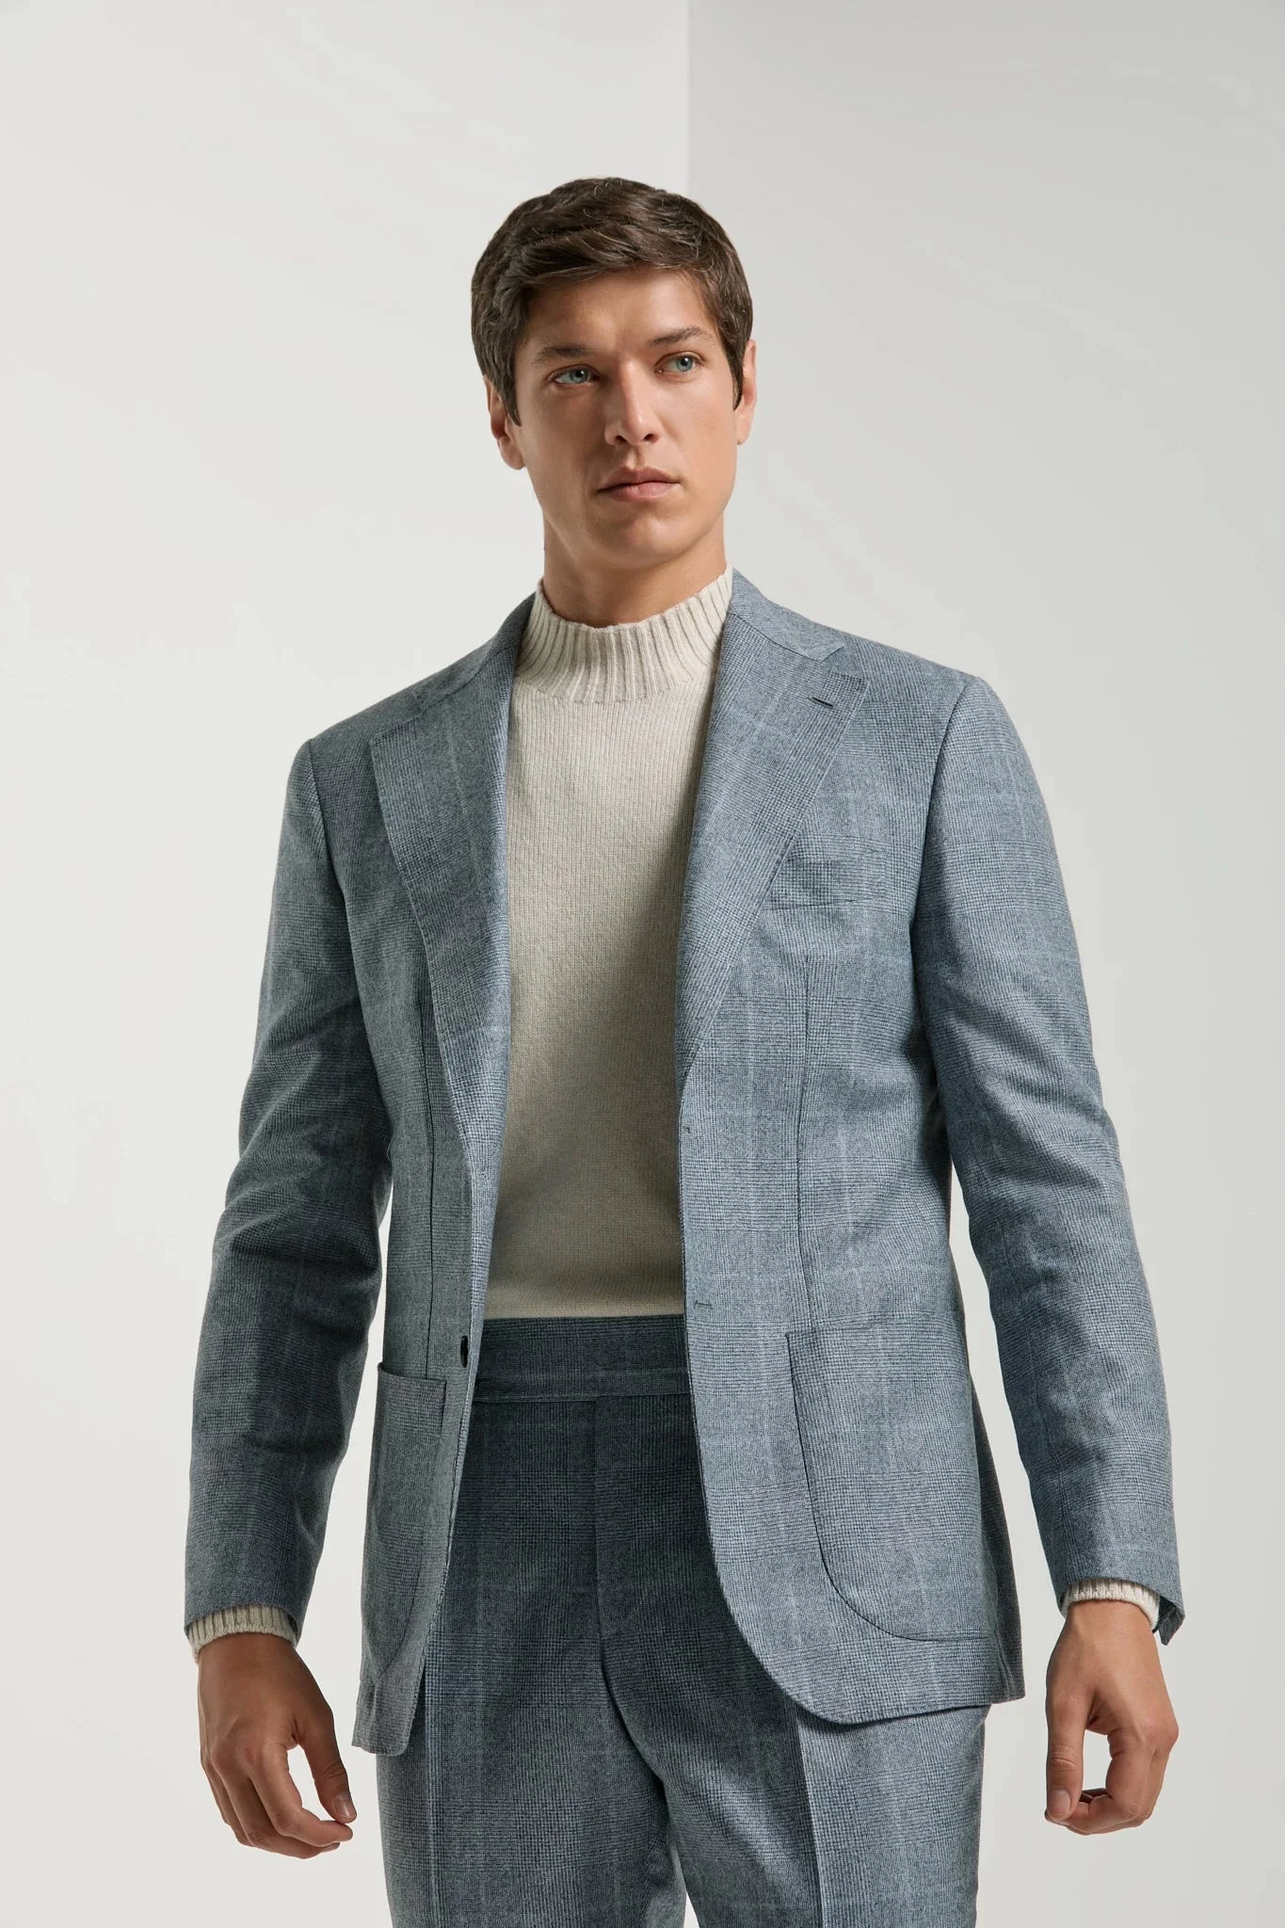
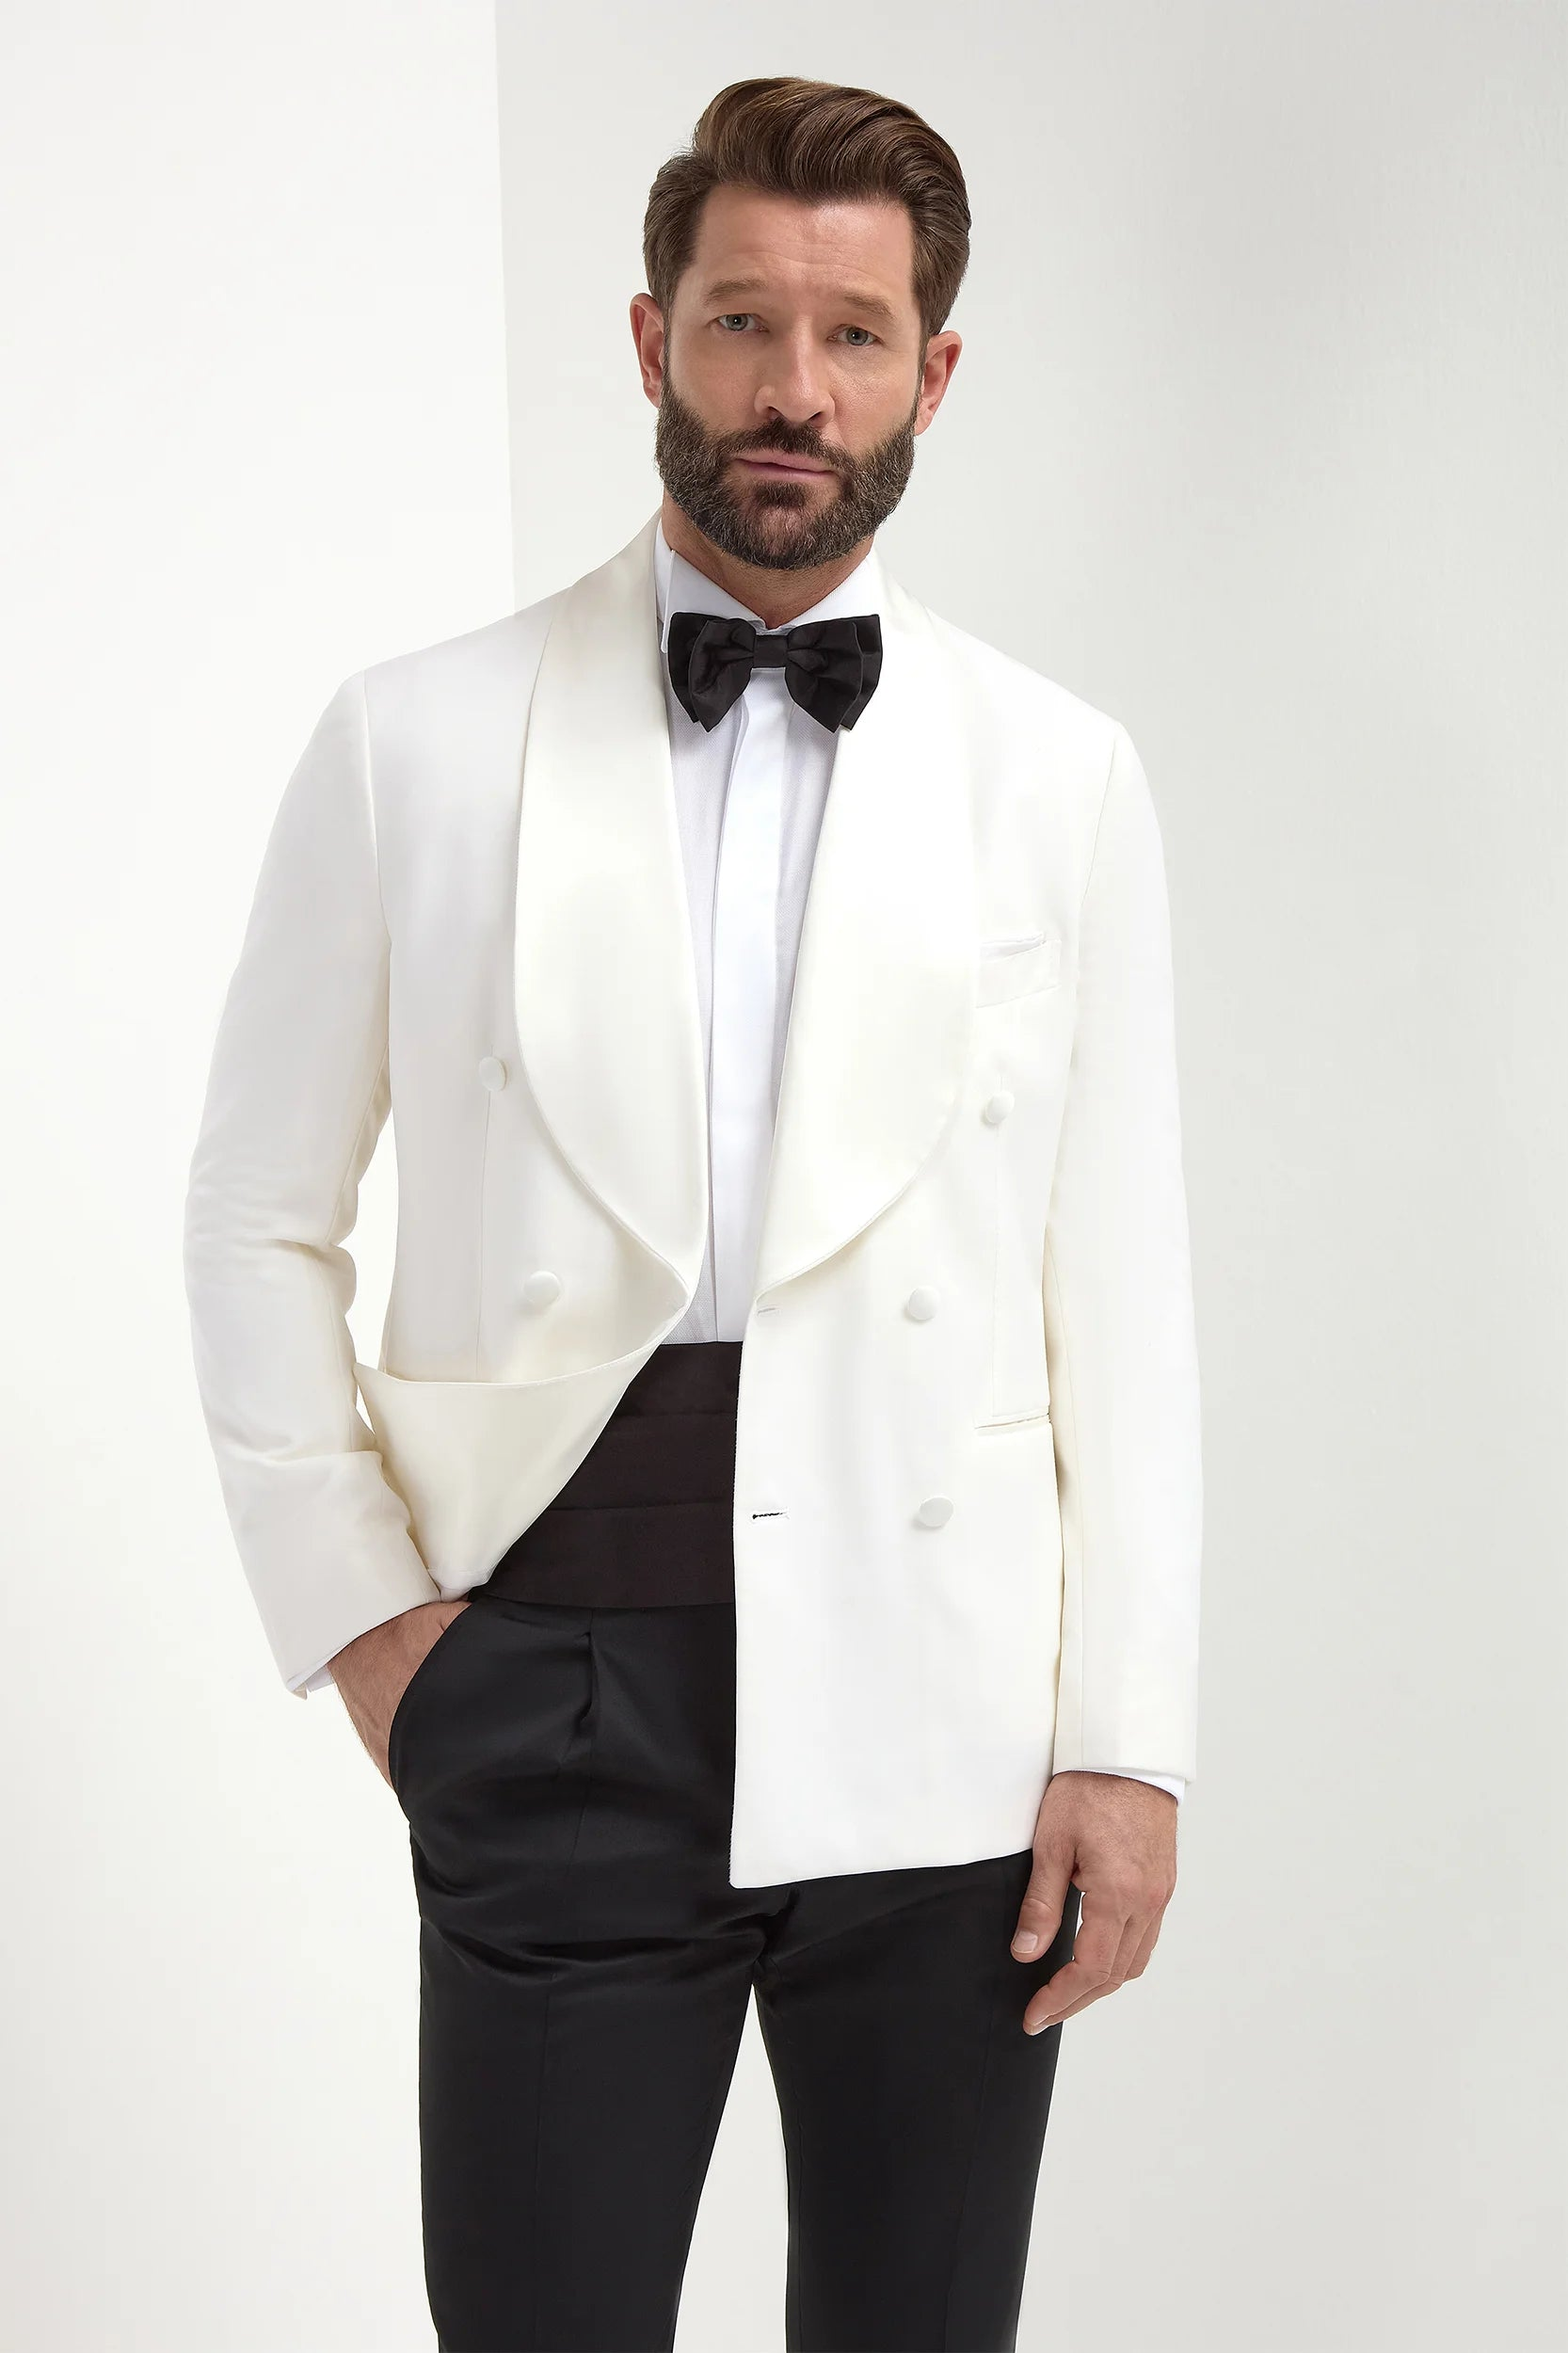
Images added

diff --git a/components/ecommarce/fashion/EditorialHeader.tsx b/components/ecommarce/fashion/EditorialHeader.tsx
@@ -9,10 +9,10 @@ export type MenuProduct = { id: number; slug: string; name: string; image: strin
 type MenuName = "Clothing" | "Shoes" | "Accessories" | "Gifts";
 const collection = (slug: string) => `/ecommerce/products?category=${slug}`;
 const menus: Record<MenuName, { title: string; links: Array<[string, string]>; image: string; headline: string; cta: string; href: string }> = {
-  Clothing: { title: "CLOTHING", links: [["Suits", "suits"], ["Jackets", "jackets"], ["Trousers", "trousers"], ["Knitwear", "knitwear"], ["Classic Shirts", "classic-shirts"], ["Casual Shirts", "casual-shirts"], ["Outerwear", "outerwear"], ["Waistcoats", "waistcoats"]], image: "/editorial/suits.webp", headline: "Tailoring, Reimagined", cta: "Explore suits", href: collection("suits") },
+  Clothing: { title: "CLOTHING", links: [["Suits", "suits"], ["Jackets", "jackets"], ["Trousers", "trousers"], ["Knitwear", "knitwear"], ["Classic Shirts", "classic-shirts"], ["Casual Shirts", "casual-shirts"], ["Outerwear", "outerwear"], ["Waistcoats", "waistcoats"]], image: "/editorial/suits.webp", headline: "Tailoring, Reimagined", cta: "Explore suits", href: collection("clothing") },
   Shoes: { title: "FOOTWEAR", links: [["Loafers", "shoes"], ["Classic Shoes", "shoes"], ["Leather Essentials", "shoes"]], image: "/editorial/shoes.webp", headline: "The Finishing Touch", cta: "Discover shoes", href: collection("shoes") },
   Accessories: { title: "ACCESSORIES", links: [["Ties", "ties"], ["Pocket Squares", "pocket-squares"], ["Socks", "socks"], ["Leather Goods", "leather-goods"], ["Sunglasses", "sunglasses"], ["Cufflinks", "cufflinks"]], image: "/editorial/accessories.webp", headline: "Small Details. Lasting Style.", cta: "Explore accessories", href: collection("accessories") },
-  Gifts: { title: "THE GIFT EDIT", links: [["Thoughtful Details", "accessories"], ["Ties & Pocket Squares", "ties"], ["Everyday Essentials", "knitwear"]], image: "/editorial/knitwear.webp", headline: "Something Considered", cta: "Discover the gift edit", href: collection("accessories") },
+  Gifts: { title: "THE GIFT EDIT", links: [["Thoughtful Details", "accessories"], ["Ties & Pocket Squares", "ties"], ["Everyday Essentials", "knitwear"]], image: "/editorial/knitwear.webp", headline: "Something Considered", cta: "Discover the gift edit", href: collection("gifts") },
 };
 
 export function EditorialHeader({ highlights, onOpenBag }: { highlights: MenuProduct[]; onOpenBag: () => void }) {
@@ -30,7 +30,7 @@ export function EditorialHeader({ highlights, onOpenBag }: { highlights: MenuPro
       <button className="editorial-mobile-menu" type="button" aria-label={mobileOpen ? "Close navigation" : "Open navigation"} aria-expanded={mobileOpen} onClick={() => { setMobileOpen(!mobileOpen); setSearchOpen(false); }}>{mobileOpen ? <X size={20} /> : <Menu size={20} />}</button>
       <nav className="editorial-desktop-nav" aria-label="Main navigation">
         <Link className="editorial-nav-accent" href="/ecommerce/products?sort=newest" onMouseEnter={() => setActiveMenu(null)} onClick={close}>New Arrivals</Link>
-        {(Object.keys(menus) as MenuName[]).map(name => <button key={name} type="button" aria-expanded={activeMenu === name} aria-controls="editorial-mega-menu" onMouseEnter={() => openMenu(name)} onClick={() => { if (activeMenu === name) setActiveMenu(null); else openMenu(name); }}>{name}</button>)}
+        {(Object.keys(menus) as MenuName[]).map(name => <Link key={name} href={menus[name].href} aria-expanded={activeMenu === name} aria-controls="editorial-mega-menu" onMouseEnter={() => openMenu(name)} onClick={close}>{name}</Link>)}
         <Link className="editorial-nav-accent" href="/#our-story" onMouseEnter={() => setActiveMenu(null)} onClick={close}>Our Story</Link>
       </nav>
       <Link href="/" className="editorial-wordmark" aria-label="Aura BOED home" onClick={close}><img src="/AURA_BOED_Logo.svg" alt="Aura BOED" width="118" height="48" /></Link>
@@ -52,6 +52,6 @@ export function EditorialHeader({ highlights, onOpenBag }: { highlights: MenuPro
     </header>
     <button type="button" className="editorial-menu-shade" data-open={Boolean(activeMenu)} tabIndex={activeMenu ? 0 : -1} aria-hidden={!activeMenu} aria-label="Close menu" onClick={close} />
     {searchOpen ? <form action="/ecommerce/products" className="editorial-search" onSubmit={close}><label htmlFor="editorial-search">Find your next favourite</label><div><input autoFocus id="editorial-search" name="q" type="search" placeholder="Search the collection…" required /><button type="submit">Search <Search size={16} /></button><button type="button" aria-label="Close search" onClick={close}><X size={18} /></button></div></form> : null}
-    {mobileOpen ? <nav className="editorial-mobile-nav" aria-label="Mobile navigation"><Link href="/ecommerce/products?sort=newest" onClick={close}>New Arrivals</Link>{["Suits", "Jackets", "Shirts", "Trousers", "Knitwear", "Shoes", "Accessories"].map(label => <Link key={label} href={collection(label.toLowerCase())} onClick={close}>{label}</Link>)}<Link href="/#our-story" onClick={close}>Our Story</Link></nav> : null}
+    {mobileOpen ? <nav className="editorial-mobile-nav" aria-label="Mobile navigation"><Link href="/ecommerce/products?sort=newest" onClick={close}>New Arrivals</Link>{(Object.keys(menus) as MenuName[]).map(name => <Link key={name} href={menus[name].href} onClick={close}>{name}</Link>)}{["Suits", "Jackets", "Shirts", "Trousers", "Knitwear"].map(label => <Link key={label} href={collection(label.toLowerCase())} onClick={close}>{label}</Link>)}<Link href="/#our-story" onClick={close}>Our Story</Link></nav> : null}
   </div>;
 }

diff --git a/components/ecommarce/fashion/EditorialCatalog.tsx b/components/ecommarce/fashion/EditorialCatalog.tsx
@@ -8,7 +8,7 @@ export function EditorialCatalog({ data }: { data: StorefrontCatalogData }) {
   const title = filters.q ? `Results for “${filters.q}”` : selected?.name || "The collection";
   return <main className="editorial-catalog">
     <div className="editorial-catalog-heading"><span className="editorial-kicker">THE AURA BOED WARDROBE</span><h1>{title}</h1><p>Considered pieces. Distinctive details. Find your everyday refinement.</p>
-      <nav className="editorial-category-tabs" aria-label="Collections"><Link href="/ecommerce/products" aria-current={!filters.category ? "page" : undefined}>ALL PIECES</Link>{["Suits", "Jackets", "Shirts", "Trousers", "Knitwear", "Shoes", "Accessories"].map(name => <Link key={name} aria-current={filters.category === name.toLowerCase() ? "page" : undefined} href={`/ecommerce/collections/${name.toLowerCase()}`}>{name.toUpperCase()}</Link>)}</nav>
+      <nav className="editorial-category-tabs" aria-label="Collections"><Link href="/ecommerce/products" aria-current={!filters.category ? "page" : undefined}>ALL PIECES</Link>{["Suits", "Jackets", "Shirts", "Trousers", "Knitwear", "Shoes", "Accessories", "Ladies Wear"].map(name => <Link key={name} aria-current={filters.category === name.toLowerCase().replaceAll(" ", "-") ? "page" : undefined} href={`/ecommerce/collections/${name.toLowerCase().replaceAll(" ", "-")}`}>{name.toUpperCase()}</Link>)}</nav>
     </div>
     <div className="editorial-catalog-body">
       <form action="/ecommerce/products" className="editorial-filters">

diff --git a/components/ecommarce/fashion/editorial.css b/components/ecommarce/fashion/editorial.css
@@ -8,7 +8,7 @@
 .editorial-header{position:relative;z-index:2;display:grid;grid-template-columns:minmax(0,1fr) 128px minmax(0,1fr);align-items:center;height:70px;padding:0 24px;background:#fff;border-bottom:1px solid #f0f0ed}
 .editorial-desktop-nav{display:flex;gap:23px;align-items:center;white-space:nowrap;font-size:12px;font-weight:500}
 .editorial-desktop-nav>a,.editorial-desktop-nav>button{padding:25px 0;transition:color .2s}
-.editorial-desktop-nav .editorial-nav-accent{color:#b32e29}.editorial-desktop-nav>button[aria-expanded=true],.editorial-desktop-nav>button:hover{color:#ad2826}
+.editorial-desktop-nav .editorial-nav-accent{color:#b32e29}.editorial-desktop-nav>button[aria-expanded=true],.editorial-desktop-nav>button:hover,.editorial-desktop-nav>a[aria-expanded=true],.editorial-desktop-nav>a:hover{color:#ad2826}
 .editorial-wordmark{justify-self:center;width:128px;display:flex;justify-content:center}.editorial-wordmark img{width:190px;height:68px;max-width:none;object-fit:contain;filter:none}
 .editorial-header-actions{justify-self:end;display:flex;align-items:center;gap:21px;white-space:nowrap;font-size:12px;font-weight:500}
 .editorial-header-actions>a,.editorial-header-actions>button{display:flex;align-items:center;gap:5px}

diff --git a/lib/editorial-images.ts b/lib/editorial-images.ts
@@ -1,6 +1,6 @@
 export const homeImages = {
   hero: "/images/Coastal%20Stone%20Terrace%20Elegance.png",
-  heroMobile: "/images/Coastal%20Stone%20Terrace%20Elegance%202.png",
+  heroMobile: "/images/Coastal2.png",
   suits: "/editorial/suits.webp", accessories: "/editorial/accessories.webp",
   jackets: "/editorial/jackets.webp", shirts: "/editorial/shirts.webp",
   knitwear: "/editorial/knitwear.webp", shoes: "/editorial/shoes.webp",
@@ -8,5 +8,5 @@ export const homeImages = {
   story: "/editorial/story.webp",
   storyVideo: "/images/Exceptional%20texture.mp4",
   summer: "/images/Long%20Days,%20Lighter%20Layers.png",
-  summerMobile: "/images/Long%20Days,%20Lighter%20Layers%202.png",
+  summerMobile: "/images/Long2.png",
 };

diff --git a/app/ecommerce/collections/[slug]/page.tsx b/app/ecommerce/collections/[slug]/page.tsx
@@ -1,8 +1,9 @@
 import { redirect, notFound } from "next/navigation";
 
 const collections: Record<string, string> = {
-  suits: "suits", jackets: "jackets", shirts: "shirts", trousers: "trousers",
-  knitwear: "knitwear", shoes: "shoes", accessories: "accessories", summer: "swimwear",
+  clothing: "clothing", suits: "suits", jackets: "jackets", shirts: "shirts", trousers: "trousers",
+  knitwear: "knitwear", shoes: "shoes", accessories: "accessories", gifts: "accessories",
+  "ladies-wear": "ladies-wear", summer: "swimwear",
   all: "", "new-arrivals": "",
 };
 export default async function CollectionPage({ params }: { params: Promise<{ slug: string }> }) {

diff --git a/lib/editorial-banners.ts b/lib/editorial-banners.ts
@@ -26,8 +26,8 @@ export async function getEditorialBannerImages() {
   const summer = imageFor("BANNER1", 1) || homeImages.summer;
   return {
     hero,
-    heroMobile: imageFor("HERO", 2) || hero,
+    heroMobile: imageFor("HERO", 2) || homeImages.heroMobile,
     summer,
-    summerMobile: imageFor("BANNER1", 2) || summer,
+    summerMobile: imageFor("BANNER1", 2) || homeImages.summerMobile,
   };
 }
